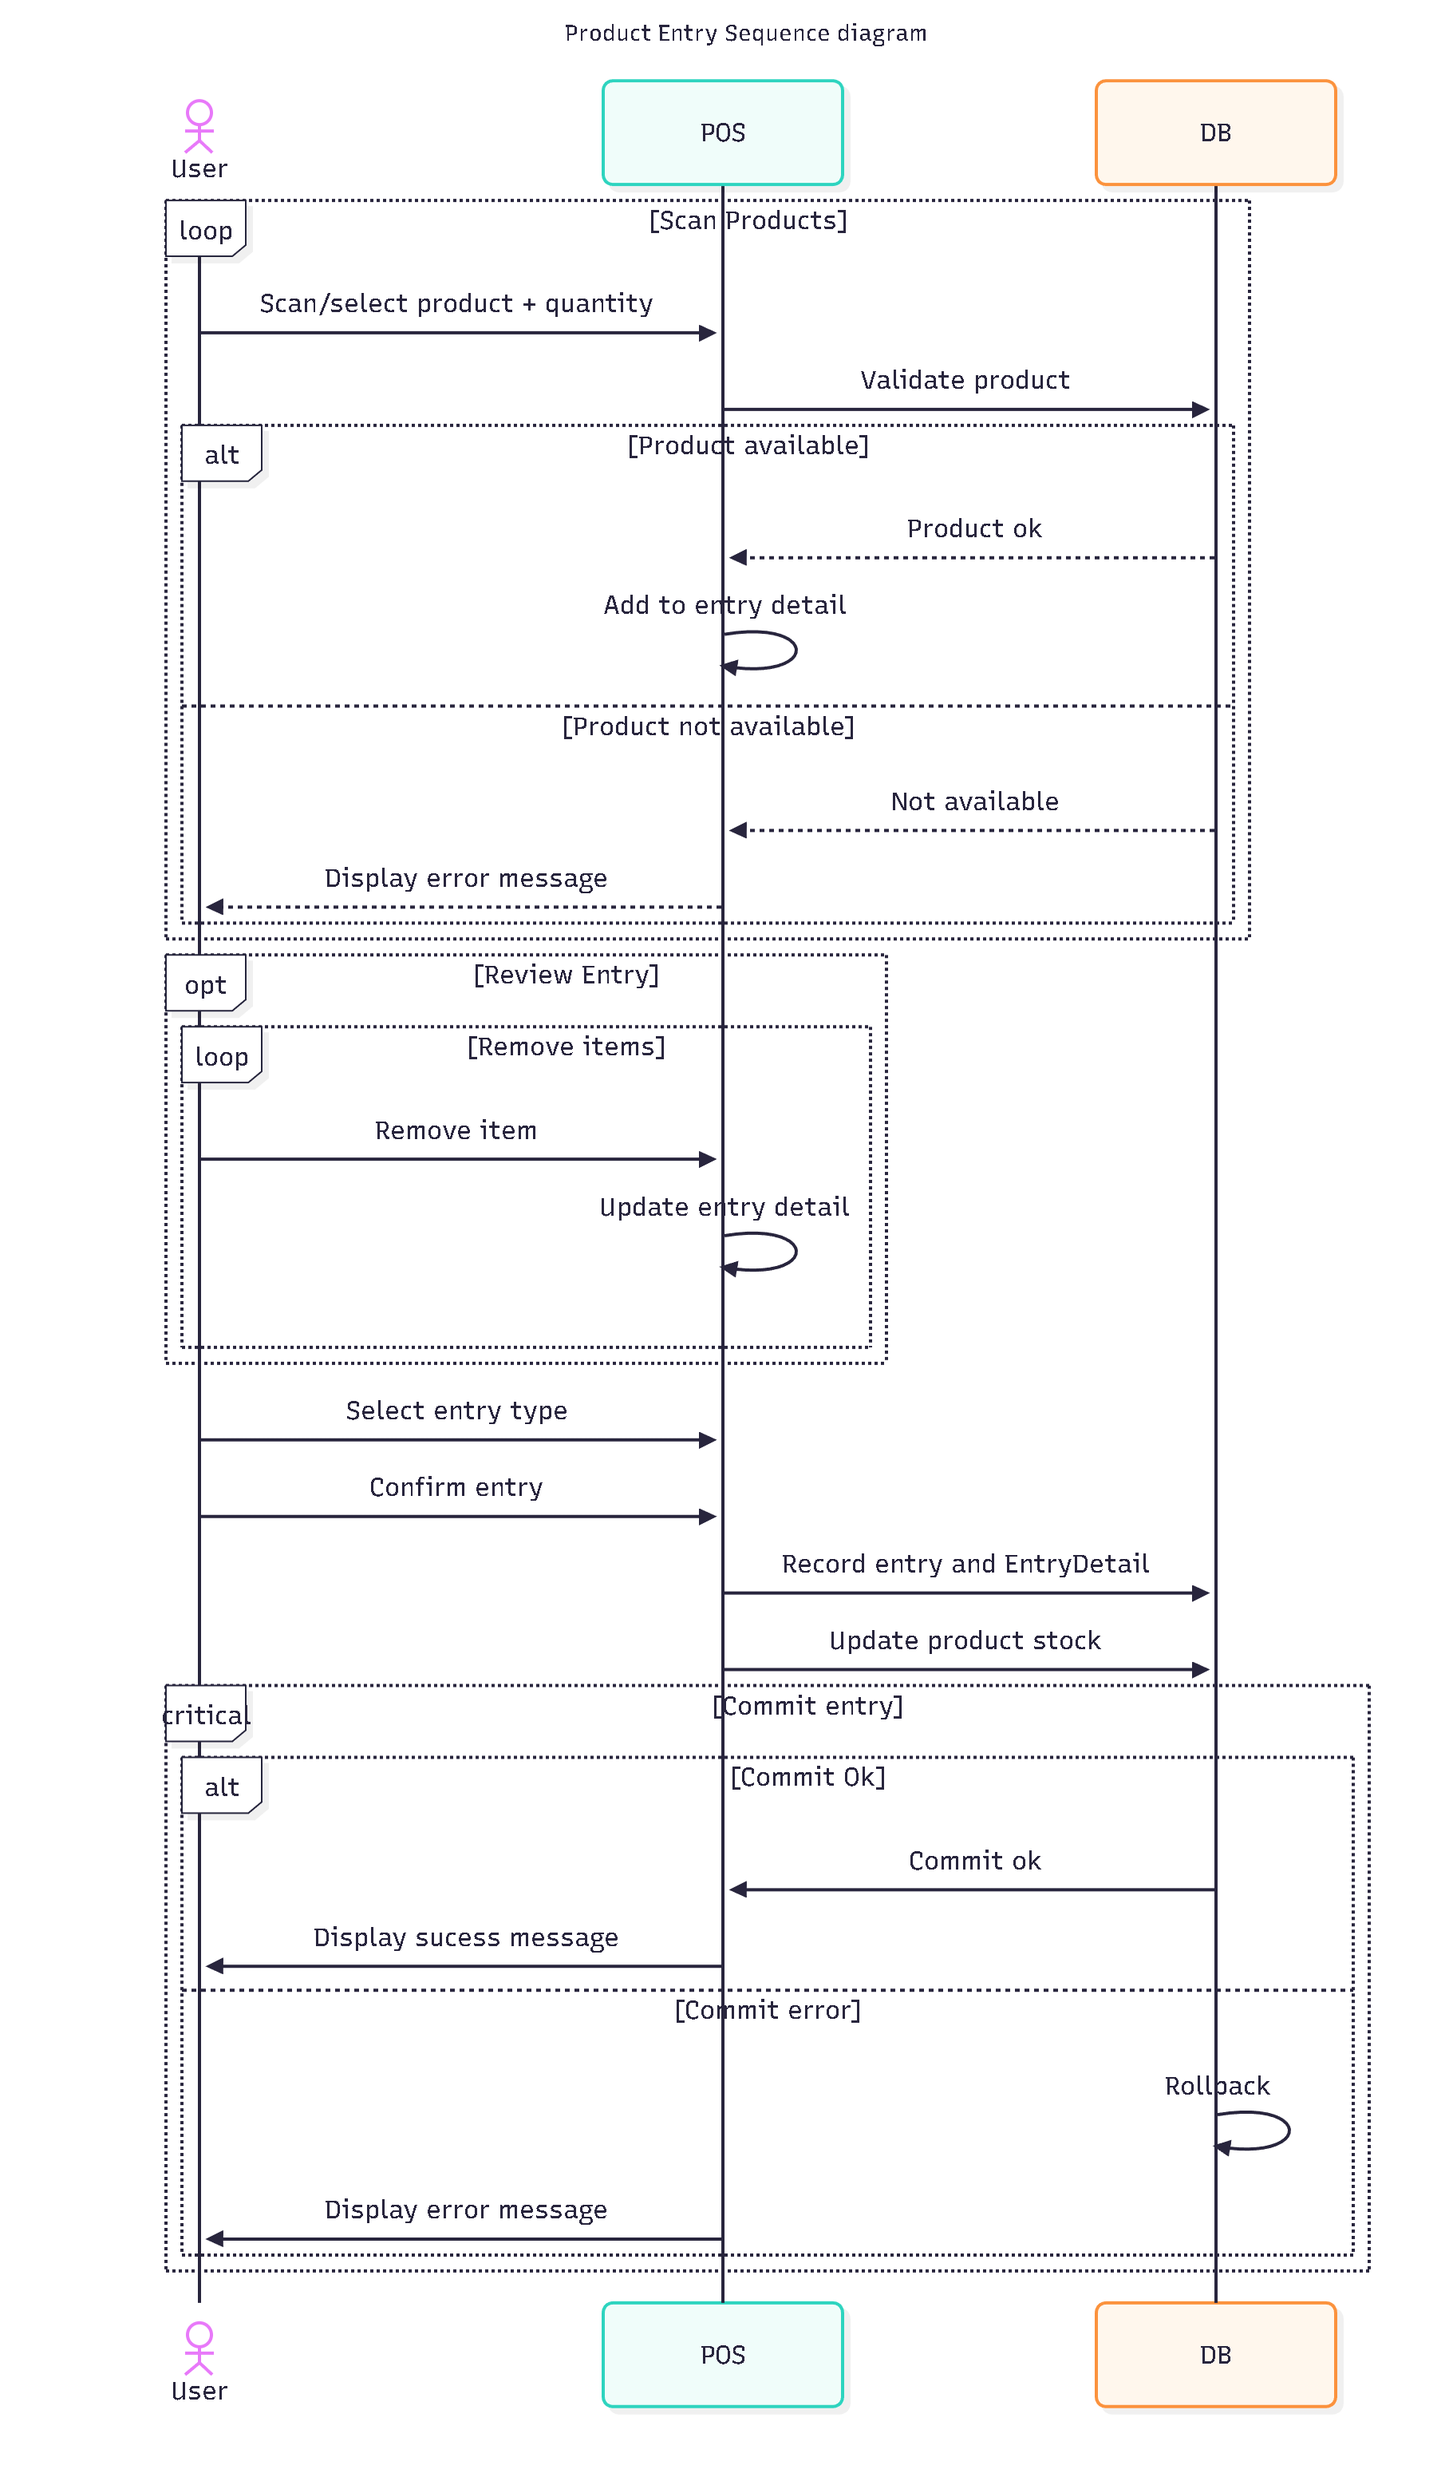
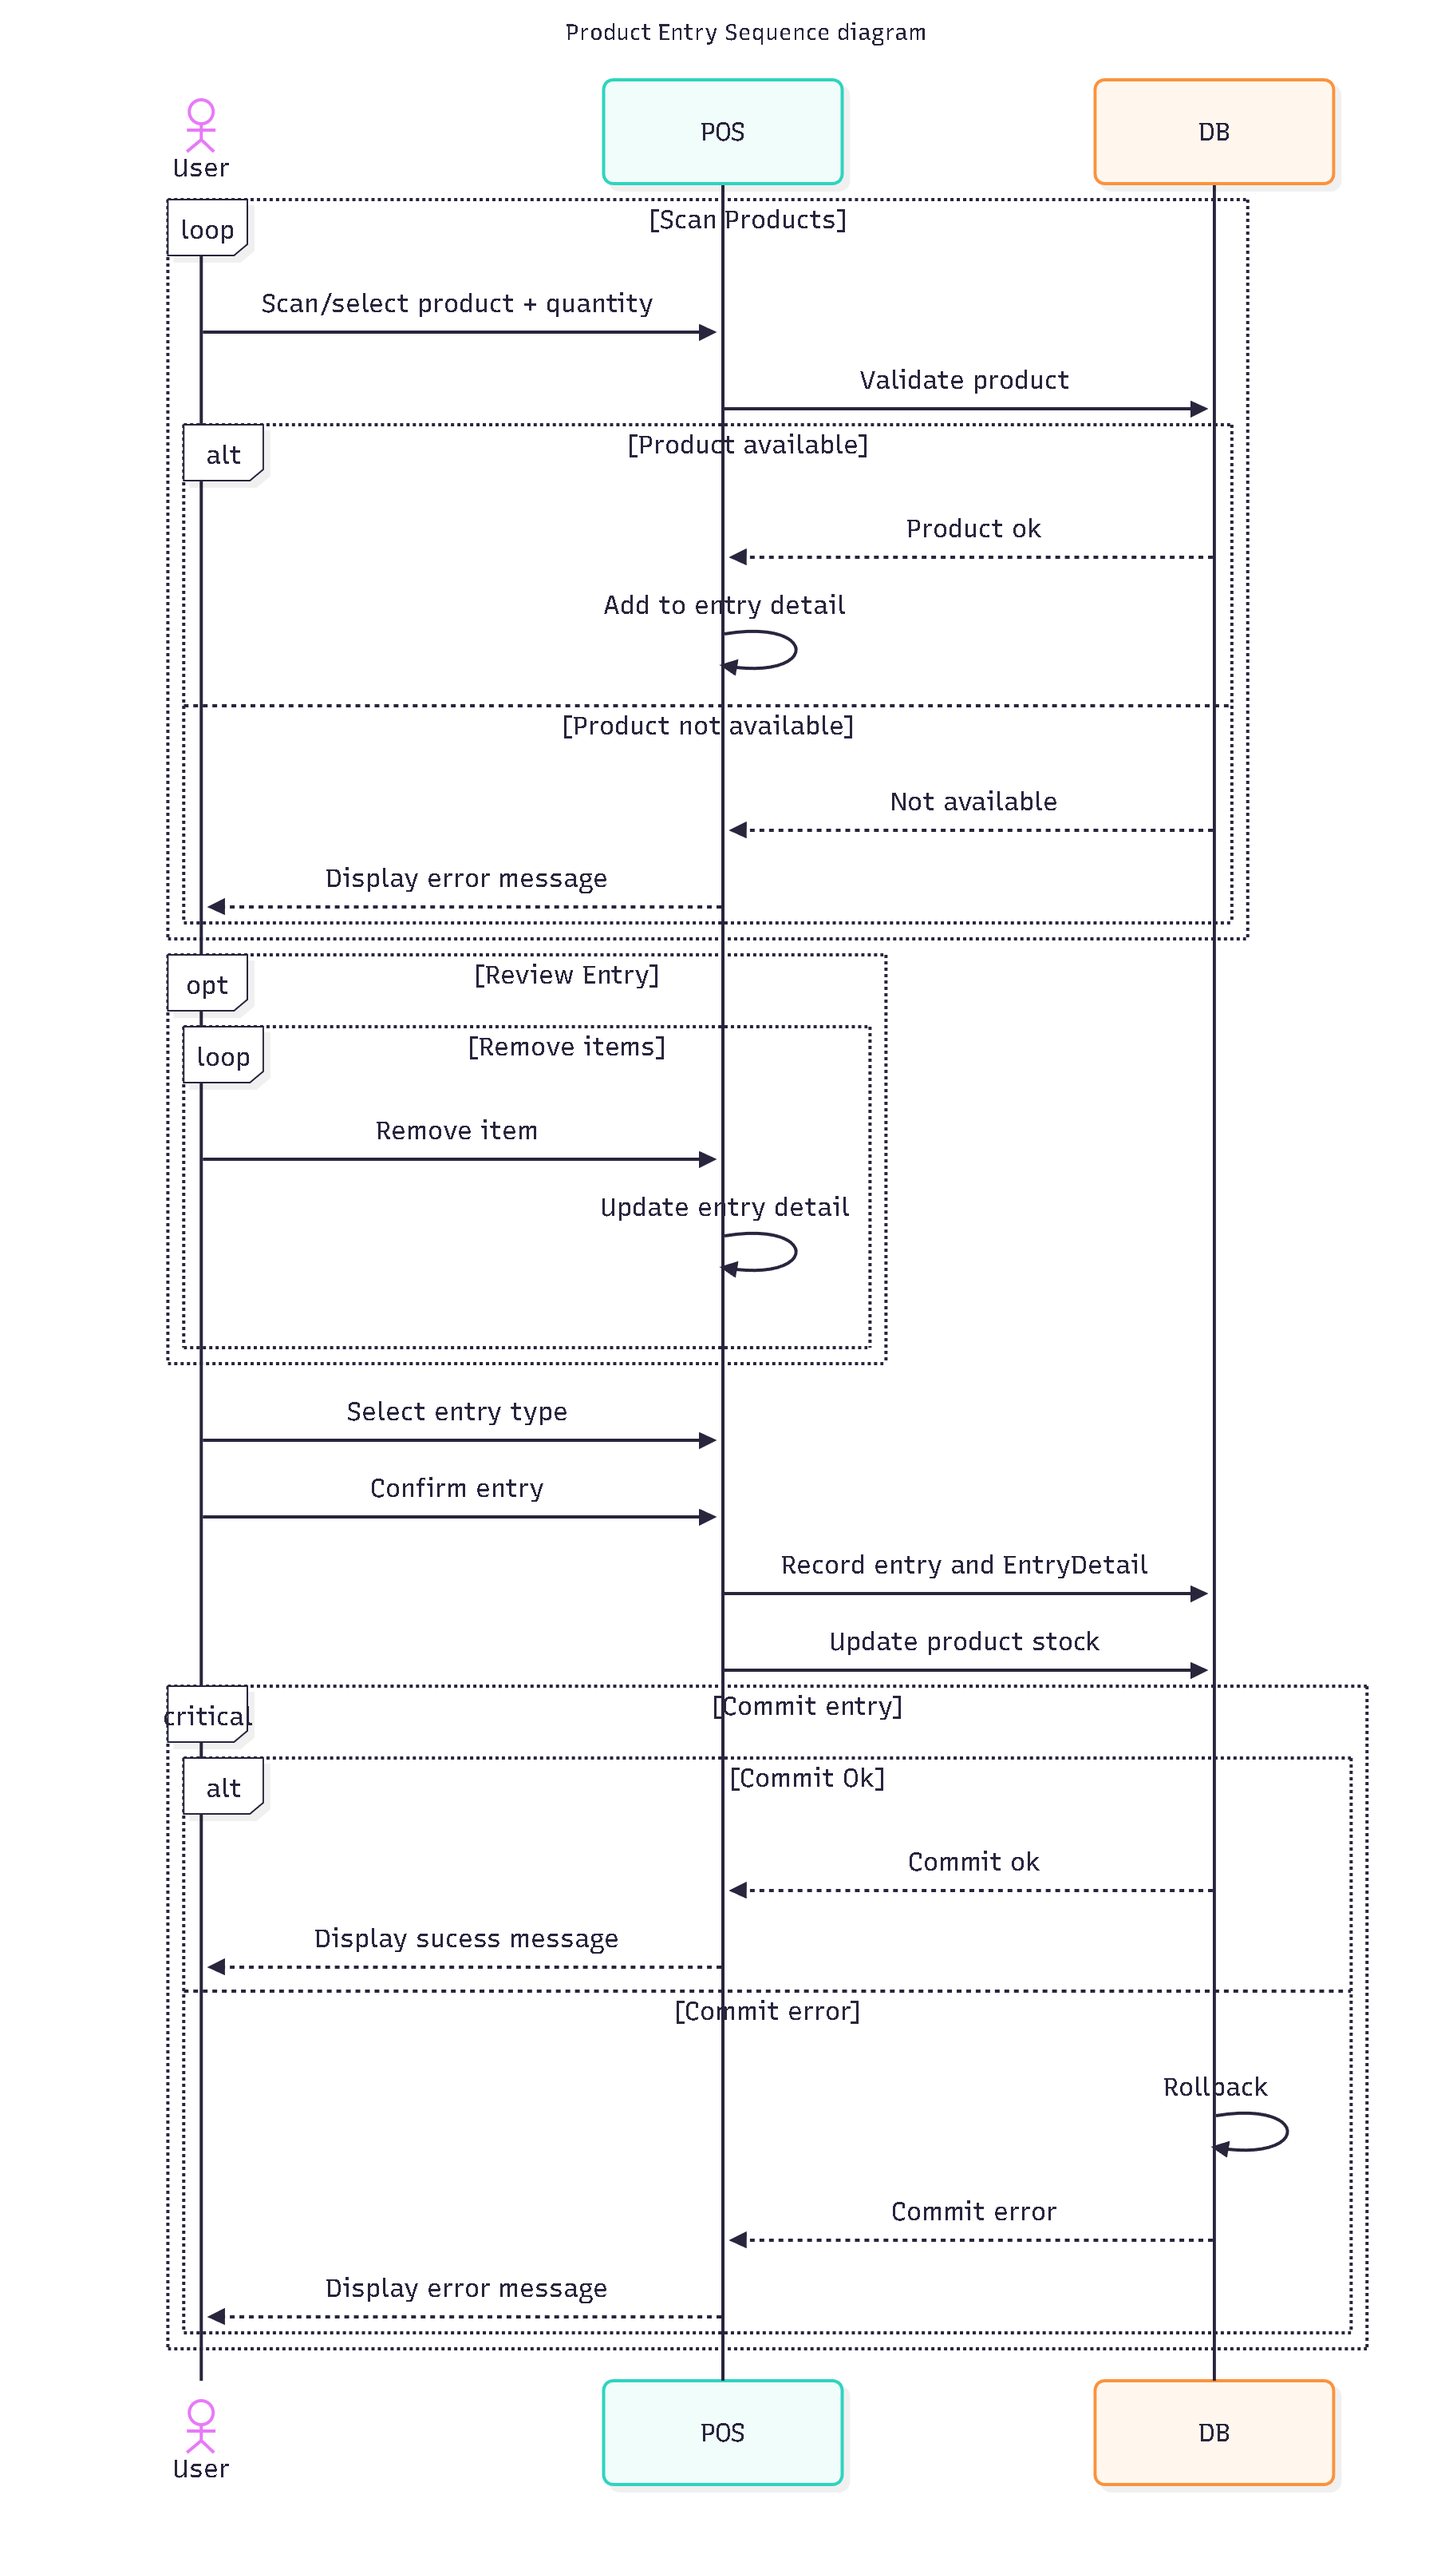
Add Cancel sale sequence diagram image and update design document

diff --git a/Docs/04_Desing.md b/Docs/04_Desing.md
@@ -248,6 +248,7 @@ sequenceDiagram
             POS -->> User: Show change
         else Commit Error
             DB ->> DB: Rollback
+            DB -->> POS: Commit error
             POS -->> User: Display error message
         end
 
@@ -292,11 +293,12 @@ sequenceDiagram
   POS ->> DB: Update product stock
   critical Commit entry 
     alt Commit Ok
-      DB ->> POS: Commit ok
-      POS ->> User: Display sucess message
+      DB -->> POS: Commit ok
+      POS -->> User: Display sucess message
     else Commit error
       DB ->> DB: Rollback
-      POS ->> User: Display error message
+      DB -->> POS: Commit error
+      POS -->> User: Display error message
     end
   end
 ```
@@ -336,11 +338,64 @@ sequenceDiagram
   POS ->> DB: Reduce product stock
   critical Commit Output 
     alt Commit Ok
-      DB ->> POS: Commit ok
-      POS ->> User: Display success message
+      DB -->> POS: Commit ok
+      POS -->> User: Display success message
     else Commit error
       DB ->> DB: Rollback
-      POS ->> User: Display error message
+      DB -->> POS: Commit error
+      POS -->> User: Display error message
+    end
+  end
+```
+
+![Cancel sale sequence Diagram](./img/Cancel_sale_sequence_diagram.png)
+
+```mermaid
+---
+title: Cancel Sale Sequence diagram
+---
+sequenceDiagram
+  actor User as User
+  participant POS as POS
+  participant DB as DB
+  User ->> POS: Search for the sale
+  POS ->> DB: Validate user permission
+  alt User has permission
+    DB -->> POS: Permission granted
+    POS ->> DB: Fetch sale data
+  else User doesn't have permission
+    DB -->> POS: Deny permission
+    POS -->> User: Permission denied
+  end
+  alt Sale exists
+    DB -->> POS: Sale information
+    POS -->> User: Display sale information
+  else Sale doesn't exist
+    DB -->> POS: Sale not found
+    POS -->> User: Display error message
+  end
+  User ->> POS: Start cancellation
+  POS ->> DB: Validate sale eligibility
+  alt Sale eligible to cancel
+    DB -->> POS: Eligible to cancel
+    POS -->> User: Request cancellation reason
+  else Sale not eligible
+    DB -->> POS: Not eligible
+    POS -->> User: Display error message
+  end
+  User ->> POS: Confirm cancellation
+  POS ->> DB: Mark sale as canceled
+  POS ->> DB: Update stock for each sale detail
+  POS ->> DB: Register the cancellation record
+  critical Commit cancellation
+    alt Commit ok
+      DB -->> POS: Commit success
+      POS -->> User: Display success message
+      POS -->> User: Display refund amount to return to client
+    else Commit error
+      DB ->> DB: Rollback
+      DB -->> POS: Commit error
+      POS -->> User: Display error message
     end
   end
 ```
